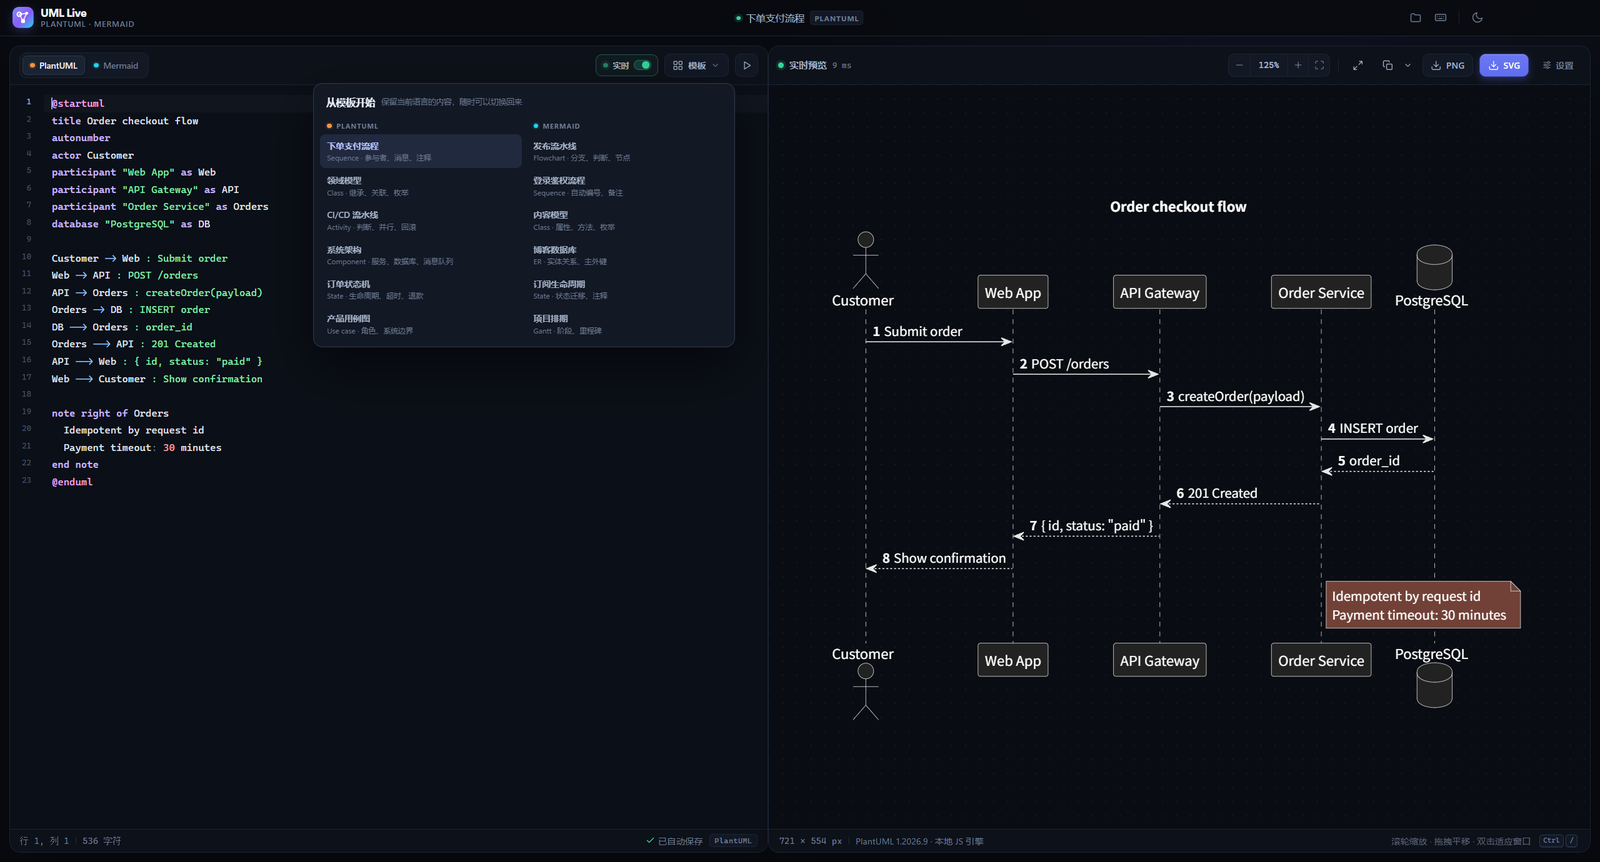
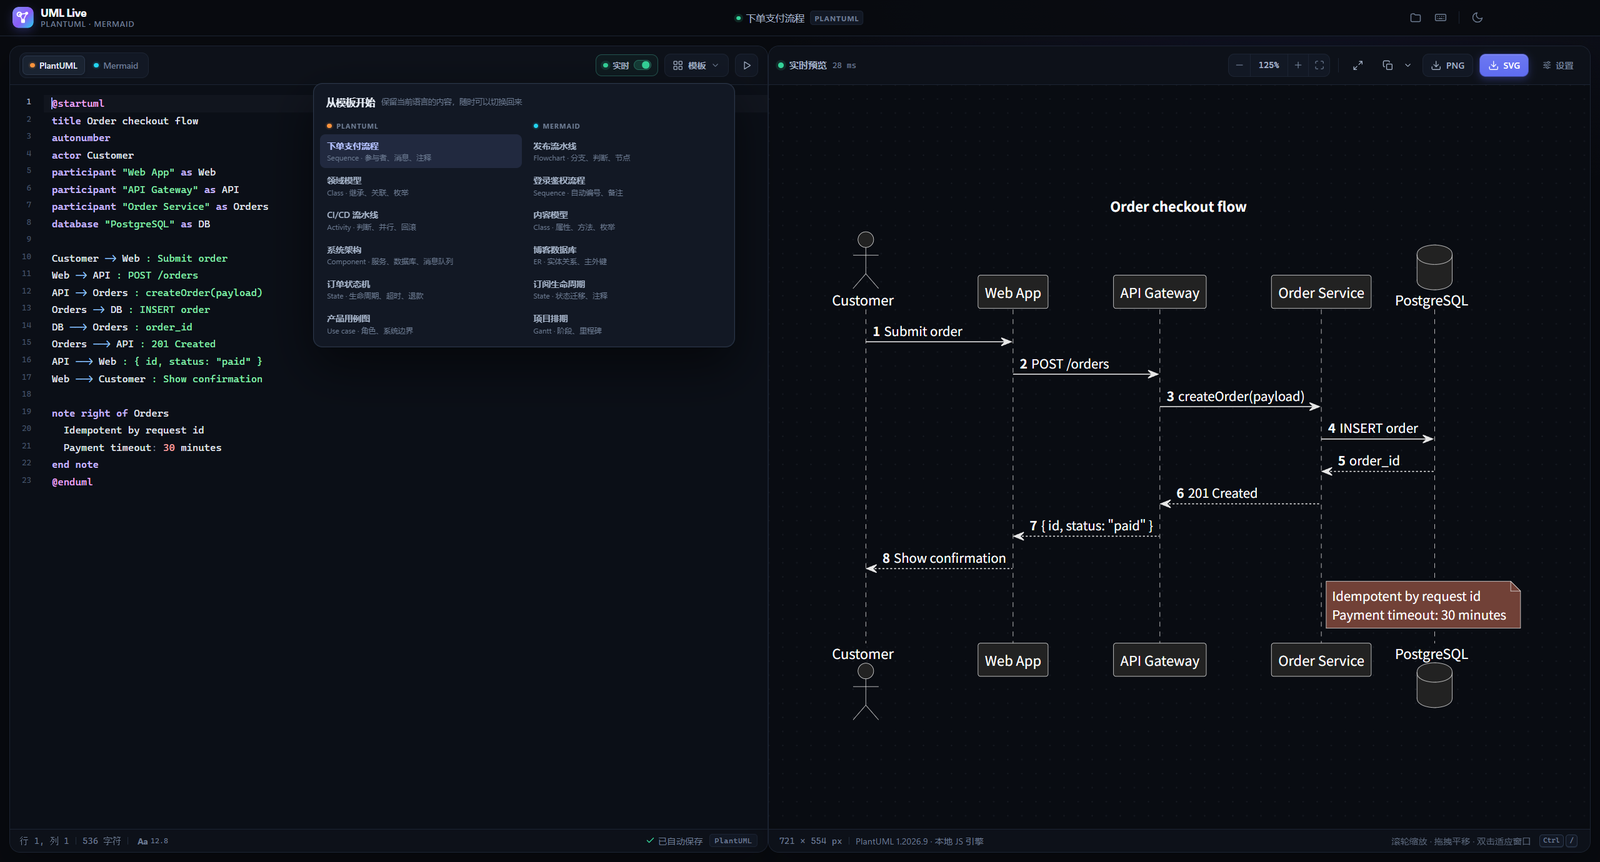
Add Ctrl-wheel code font zoom

diff --git a/src/js/main.js b/src/js/main.js
@@ -1,5 +1,10 @@
 import '../styles.css';
-import { CodeEditor } from './editor.js';
+import {
+  CodeEditor,
+  EDITOR_FONT_DEFAULT,
+  EDITOR_FONT_MAX,
+  EDITOR_FONT_MIN,
+} from './editor.js';
 import { PreviewController } from './preview.js';
 import {
   addSvgBackground,
@@ -63,6 +68,8 @@ const dom = {
   languageSwitch: $('languageSwitch'),
   cursorInfo: $('cursorInfo'),
   charInfo: $('charInfo'),
+  editorFontBtn: $('editorFontBtn'),
+  editorFontSize: $('editorFontSize'),
   saveState: $('saveState'),
   editorLangBadge: $('editorLangBadge'),
   docName: $('docName'),
@@ -144,6 +151,9 @@ const state = {
   pngScale: [1, 2, 3].includes(Number(stored.pngScale)) ? Number(stored.pngScale) : 2,
   // White is now the default export background; transparency must be opted into.
   transparent: stored.exportBackground === 'transparent',
+  editorFontSize: Number.isFinite(Number(stored.editorFontSize))
+    ? clamp(Math.round(Number(stored.editorFontSize) * 10) / 10, EDITOR_FONT_MIN, EDITOR_FONT_MAX)
+    : EDITOR_FONT_DEFAULT,
   revision: 0,
   renderToken: 0,
   renderTimer: null,
@@ -223,6 +233,7 @@ function persistNow() {
         split: state.split,
         pngScale: state.pngScale,
         exportBackground: state.transparent ? 'transparent' : 'white',
+        editorFontSize: state.editorFontSize,
       }),
     );
     setSaveState('saved');
@@ -298,6 +309,13 @@ function updateCursorInfo(info) {
   if (!info) return;
   dom.cursorInfo.textContent = `行 ${info.line}, 列 ${info.column}`;
   dom.charInfo.textContent = `${formatNumber(info.length)} 字符`;
+}
+
+function updateEditorFontUi() {
+  const size = state.editorFontSize.toFixed(1);
+  dom.editorFontSize.textContent = size;
+  dom.editorFontBtn.title = `代码字体 ${size} px · Ctrl+滚轮调整，点击重置`;
+  dom.editorFontBtn.setAttribute('aria-label', `代码字体 ${size} 像素，点击重置`);
 }
 
 function updateRenderButton() {
@@ -1413,6 +1431,7 @@ function openShortcutsModal() {
       ['保存源码', ['Ctrl', 'S']],
       ['源码另存为', ['Ctrl', 'Shift', 'S']],
       ['查找 / 替换', ['Ctrl', 'F']],
+      ['调整代码字体大小', ['Ctrl', '滚轮']],
     ]),
     shortcutSection('导出', [
       ['导出 SVG', ['Ctrl', 'Shift', 'E']],
@@ -1809,6 +1828,11 @@ function setupUiEvents() {
   dom.themeBtn.addEventListener('click', toggleTheme);
   dom.shortcutsBtn.addEventListener('click', openShortcutsModal);
   dom.footerShortcutsBtn.addEventListener('click', openShortcutsModal);
+  dom.editorFontBtn.addEventListener('click', () => {
+    if (editor.setFontSize(EDITOR_FONT_DEFAULT)) {
+      toast(`代码字体已重置为 ${EDITOR_FONT_DEFAULT} px`, 'info', 1600);
+    }
+  });
 
   dom.exportSvgBtn.addEventListener('click', () => {
     void runExportAction(dom.exportSvgBtn, () => exportSvg());
@@ -1870,6 +1894,7 @@ function setupDebugApi() {
         : null,
       lastDims: state.lastDims,
       zoom: preview.getZoomPercent(),
+      editorFontSize: state.editorFontSize,
       engineReady: { ...state.engineReady },
     }),
     setCode: async (language, code) => {
@@ -1914,6 +1939,11 @@ function setupDebugApi() {
     copyImage: async (options = {}) => copyImage({ quiet: true, ...options }),
     copySvgSource: async (options = {}) => copySvgSource({ quiet: true, ...options }),
     getLastSvg: () => state.lastSvg,
+    getEditorFontSize: () => editor.getFontSize(),
+    setEditorFontSize: (size) => {
+      const changed = editor.setFontSize(size);
+      return { ok: true, changed, size: editor.getFontSize() };
+    },
     getTemplates: () => templates.map(({ id, language, name }) => ({ id, language, name })),
   };
 }
@@ -1926,9 +1956,16 @@ function boot() {
     doc: state.codes[state.language],
     language: state.language,
     dark: state.theme === 'dark',
+    fontSize: state.editorFontSize,
     onChange: onCodeChange,
     onCursor: updateCursorInfo,
+    onFontSize: (size) => {
+      state.editorFontSize = size;
+      updateEditorFontUi();
+      schedulePersist();
+    },
   });
+  updateEditorFontUi();
 
   preview = new PreviewController({
     viewport: dom.previewViewport,

diff --git a/src/js/editor.js b/src/js/editor.js
@@ -4,6 +4,27 @@ import { Compartment, EditorState } from '@codemirror/state';
 import { EditorView, keymap, placeholder } from '@codemirror/view';
 import { diagramSyntaxHighlighting, languageSupport } from './highlight.js';
 
+export const EDITOR_FONT_DEFAULT = 12.8;
+export const EDITOR_FONT_MIN = 9;
+export const EDITOR_FONT_MAX = 32;
+
+function clampFontSize(value) {
+  const number = Number(value);
+  if (!Number.isFinite(number)) return EDITOR_FONT_DEFAULT;
+  return Math.min(EDITOR_FONT_MAX, Math.max(EDITOR_FONT_MIN, Math.round(number * 10) / 10));
+}
+
+function editorFontTheme(fontSize) {
+  return EditorView.theme({
+    '.cm-scroller': {
+      fontSize: `${fontSize}px`,
+    },
+    '.cm-lineNumbers .cm-gutterElement': {
+      fontSize: `${Math.max(9, Math.round(fontSize * 0.78 * 10) / 10)}px`,
+    },
+  });
+}
+
 function editorTheme(dark) {
   return EditorView.theme(
     {
@@ -14,7 +35,6 @@ function editorTheme(dark) {
       },
       '.cm-scroller': {
         fontFamily: 'var(--font-mono)',
-        fontSize: '12.8px',
         lineHeight: '1.72',
         overscrollBehavior: 'contain',
       },
@@ -39,7 +59,6 @@ function editorTheme(dark) {
       '.cm-lineNumbers .cm-gutterElement': {
         padding: '0 7px 0 8px',
         minWidth: '27px',
-        fontSize: '10px',
       },
       '.cm-activeLine': {
         backgroundColor: 'var(--editor-active-line)',
@@ -202,16 +221,41 @@ export class CodeEditor {
   constructor(parent, options = {}) {
     this.onChange = options.onChange ?? (() => {});
     this.onCursor = options.onCursor ?? (() => {});
+    this.onFontSize = options.onFontSize ?? (() => {});
     this.language = options.language ?? 'plantuml';
     this.dark = options.dark !== false;
     this.silent = false;
+    this.fontSize = clampFontSize(options.fontSize ?? EDITOR_FONT_DEFAULT);
 
     this.languageConf = new Compartment();
     this.themeConf = new Compartment();
+    this.fontConf = new Compartment();
 
     this.view = new EditorView({
       parent,
       state: this._createState(options.doc ?? '', this.language, this.dark),
+    });
+
+    // Ctrl/Cmd + wheel zooms the code font. Plain wheel keeps scrolling.
+    this._handleWheel = (event) => {
+      if (!event.ctrlKey && !event.metaKey) return;
+      if (!Number.isFinite(event.deltaY) || event.deltaY === 0) return;
+      event.preventDefault();
+      event.stopPropagation();
+      const unit =
+        event.deltaMode === 1
+          ? 16
+          : event.deltaMode === 2
+            ? this.view.scrollDOM.clientHeight
+            : 1;
+      const pixels = Math.abs(event.deltaY) * unit;
+      const step = Math.min(3, Math.max(0.5, pixels / 100)) * 0.8;
+      const direction = event.deltaY < 0 ? 1 : -1;
+      this.setFontSize(this.fontSize + direction * step);
+    };
+    this.view.scrollDOM.addEventListener('wheel', this._handleWheel, {
+      passive: false,
+      capture: true,
     });
 
     this._emitCursor();
@@ -226,6 +270,7 @@ export class CodeEditor {
         EditorState.tabSize.of(2),
         this.languageConf.of(languageSupport(language)),
         this.themeConf.of(editorTheme(dark)),
+        this.fontConf.of(editorFontTheme(this.fontSize)),
         diagramSyntaxHighlighting,
         placeholder(placeholderFor(language)),
         keymap.of([indentWithTab]),
@@ -287,6 +332,22 @@ export class CodeEditor {
     this.view.dispatch({
       effects: this.themeConf.reconfigure(editorTheme(dark)),
     });
+  }
+
+  setFontSize(value) {
+    const next = clampFontSize(value);
+    if (next === this.fontSize) return false;
+    this.fontSize = next;
+    this.view.dispatch({
+      effects: this.fontConf.reconfigure(editorFontTheme(next)),
+    });
+    this.view.requestMeasure();
+    this.onFontSize(next);
+    return true;
+  }
+
+  getFontSize() {
+    return this.fontSize;
   }
 
   getValue() {

diff --git a/src/styles.css b/src/styles.css
@@ -565,6 +565,41 @@ html[data-theme="light"] .theme-icon-sun {
   font-size: 9px;
 }
 
+.editor-font-btn {
+  display: inline-flex;
+  align-items: center;
+  gap: 4px;
+  height: 18px;
+  padding: 0 4px;
+  border: 0;
+  border-radius: 4px;
+  background: transparent;
+  color: var(--text-3);
+  font-size: 10px;
+  transition: background 120ms ease, color 120ms ease;
+}
+
+.editor-font-btn:hover {
+  background: var(--surface-2);
+  color: var(--text-2);
+}
+
+.editor-font-btn:focus-visible {
+  outline: 2px solid color-mix(in srgb, var(--accent) 65%, transparent);
+  outline-offset: 1px;
+}
+
+.editor-font-btn .editor-font-glyph {
+  font-family: var(--font-display);
+  font-size: 11px;
+  font-weight: 650;
+  letter-spacing: -0.03em;
+}
+
+.editor-font-btn .mono {
+  font-size: 9.5px;
+}
+
 .hint {
   color: var(--text-3);
   opacity: 0.8;

diff --git a/src/index.html b/src/index.html
@@ -123,6 +123,11 @@
           <span class="mono" id="cursorInfo">行 1, 列 1</span>
           <span class="footer-sep"></span>
           <span class="mono" id="charInfo">0 字符</span>
+          <span class="footer-sep"></span>
+          <button class="editor-font-btn" id="editorFontBtn" type="button" title="代码字体大小（Ctrl+滚轮调整，点击重置）">
+            <span class="editor-font-glyph">Aa</span>
+            <span class="mono" id="editorFontSize">12.8</span>
+          </button>
           <span class="footer-spacer"></span>
           <span class="autosave" id="saveState">
             <svg class="icon"><use href="#i-check" /></svg>

diff --git a/README.md b/README.md
@@ -24,7 +24,7 @@
 - **纯 JavaScript 的 PlantUML**：使用 PlantUML 官方发布的 [`@plantuml/core`](https://www.npmjs.com/package/@plantuml/core) TeaVM JavaScript 构建；Graphviz 布局由 [Viz.js](https://github.com/mdaines/viz-js) 的 WebAssembly 版本提供。
   **没有 Java、`plantuml.jar`、本地服务端进程，也不请求 plantuml.com。**
 - **Mermaid 12**：本地打包的 Mermaid 12.2 渲染器，覆盖流程图、时序图、类图、ER、状态图、甘特图、思维导图等常用图表。
-- **面向开发的编辑器**：CodeMirror 6、行号、PlantUML / Mermaid 语法高亮、自动换行、搜索替换、撤销历史。
+- **面向开发的编辑器**：CodeMirror 6、行号、PlantUML / Mermaid 语法高亮、自动换行、搜索替换、撤销历史，并支持按 `Ctrl + 滚轮` 调整代码字号。
 - **可操作的预览**：鼠标滚轮直接缩放、拖拽平移、一键恢复 100% 并居中、双击适应窗口。
 - **平面图表样式**：预览与导出不添加外阴影，并关闭 Mermaid 12 neo 样式内置的图形阴影。
 - **全屏预览**：预览工具栏新增展开按钮，一键收起代码区，让图表占满工作区；按 `F11` 或 `Esc` 恢复。
@@ -109,6 +109,7 @@ npm run dist
 ### 语言与渲染
 
 - 编辑器左上角切换 **PlantUML / Mermaid**；两种语言的源码、文件路径和编辑内容相互独立。
+- 代码区按住 `Ctrl`（macOS 为 `Cmd`）滚动滚轮可调整代码字体大小，范围 9–32 px；底部 `Aa` 状态显示当前字号，点击可恢复默认的 12.8 px。
 - 右上「实时」开关控制自动渲染。关闭后按 `Ctrl+Enter` 或点击 ▶ 手动渲染。
 - 顶部文件夹菜单支持：新建空白图表、打开源码、保存源码、另存为。
 - 可以直接把 `.puml` / `.plantuml` / `.mmd` / `.mermaid` / `.txt` 文件拖进窗口打开。
@@ -147,6 +148,7 @@ npm run dist
 | 新建空白图表 | `Ctrl + N` |
 | 保存源码 / 另存为 | `Ctrl + S` / `Ctrl + Shift + S` |
 | 查找 / 替换 | `Ctrl + F` |
+| 调整代码字体大小 | `Ctrl + 滚轮` |
 | 切换 PlantUML / Mermaid | `Ctrl + 1` / `Ctrl + 2` |
 | 放大 / 缩小 / 恢复 100% 并居中 | `Ctrl +` / `Ctrl -` / `Ctrl 0` |
 | 全屏预览 / 退出 | `F11` |
@@ -167,7 +169,7 @@ npm run dist
 
 ### 本地草稿与窗口状态
 
-- 正在编辑的源码、语言、主题、模板来源、导出倍率、分栏比例保存在本机 `localStorage`。
+- 正在编辑的源码、语言、主题、模板来源、导出倍率、分栏比例和编辑器字号保存在本机 `localStorage`。
 - 窗口位置与大小保存在 `%APPDATA%\UML Live\window-state.json`。
 - 应用不上传源码，也不包含遥测。卸载或删除 `%APPDATA%\UML Live` 会同时清除本地草稿与窗口状态。
 

diff --git a/RELEASE_NOTES.md b/RELEASE_NOTES.md
@@ -12,7 +12,7 @@ UML Live 是一款面向 Windows 的 PlantUML / Mermaid 实时预览工具：左
 ## 主要功能
 
 - **双引擎实时渲染**：PlantUML 使用官方 `@plantuml/core` TeaVM JavaScript 引擎；Mermaid 12.2 本地渲染。
-- **面向开发的编辑器**：CodeMirror 6、语法高亮、独立语言源码、12 个内置模板与源码自动保存。
+- **面向开发的编辑器**：CodeMirror 6、语法高亮、独立语言源码、12 个内置模板与源码自动保存；代码区支持 `Ctrl + 滚轮` 调整字号。
 - **灵活的预览控制**：滚轮缩放、拖拽平移、恢复 100% 并居中、双击适应窗口。
 - **平面图表样式**：预览与导出不添加外阴影，并关闭 Mermaid 12 neo 样式内置的图形阴影。
 - **全屏预览**：点击预览工具栏按钮或按 `F11` 收起代码区，让图表占满工作区；`Esc` 可退出。
